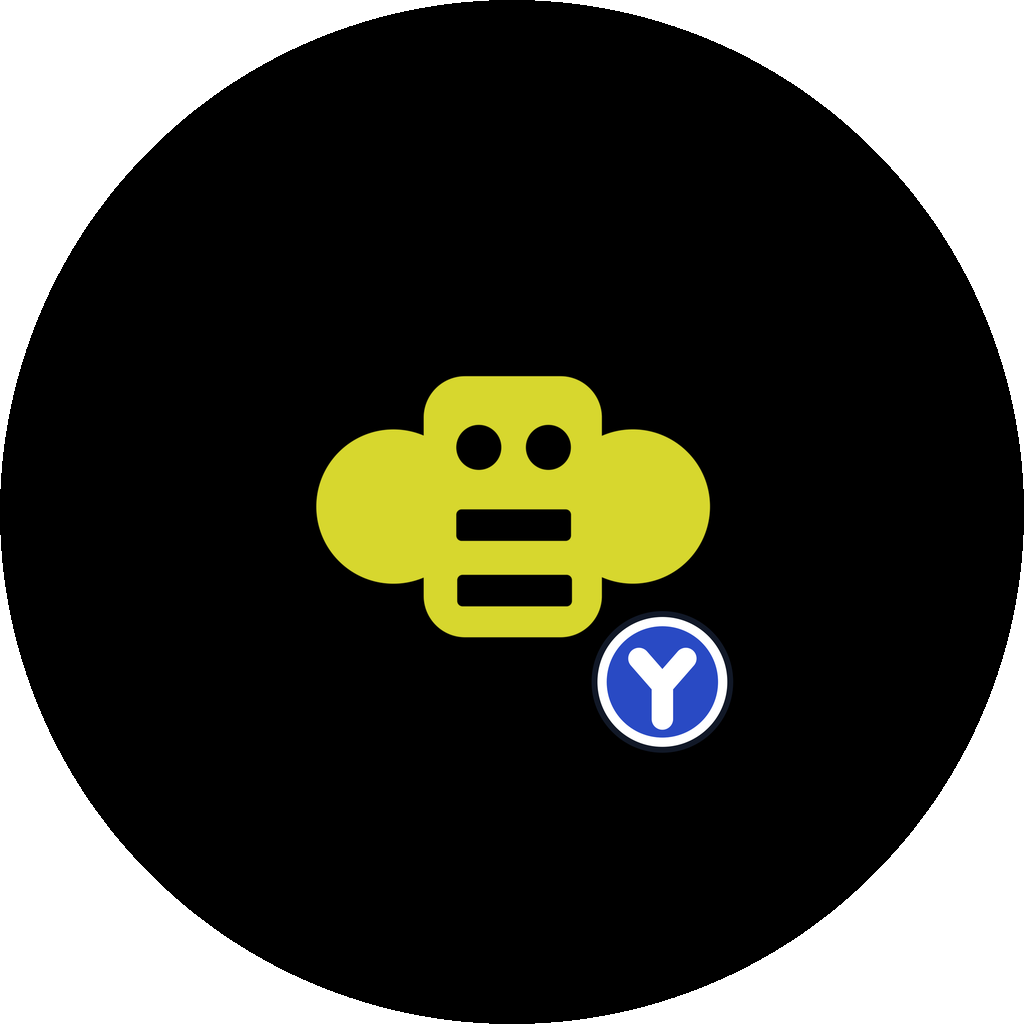
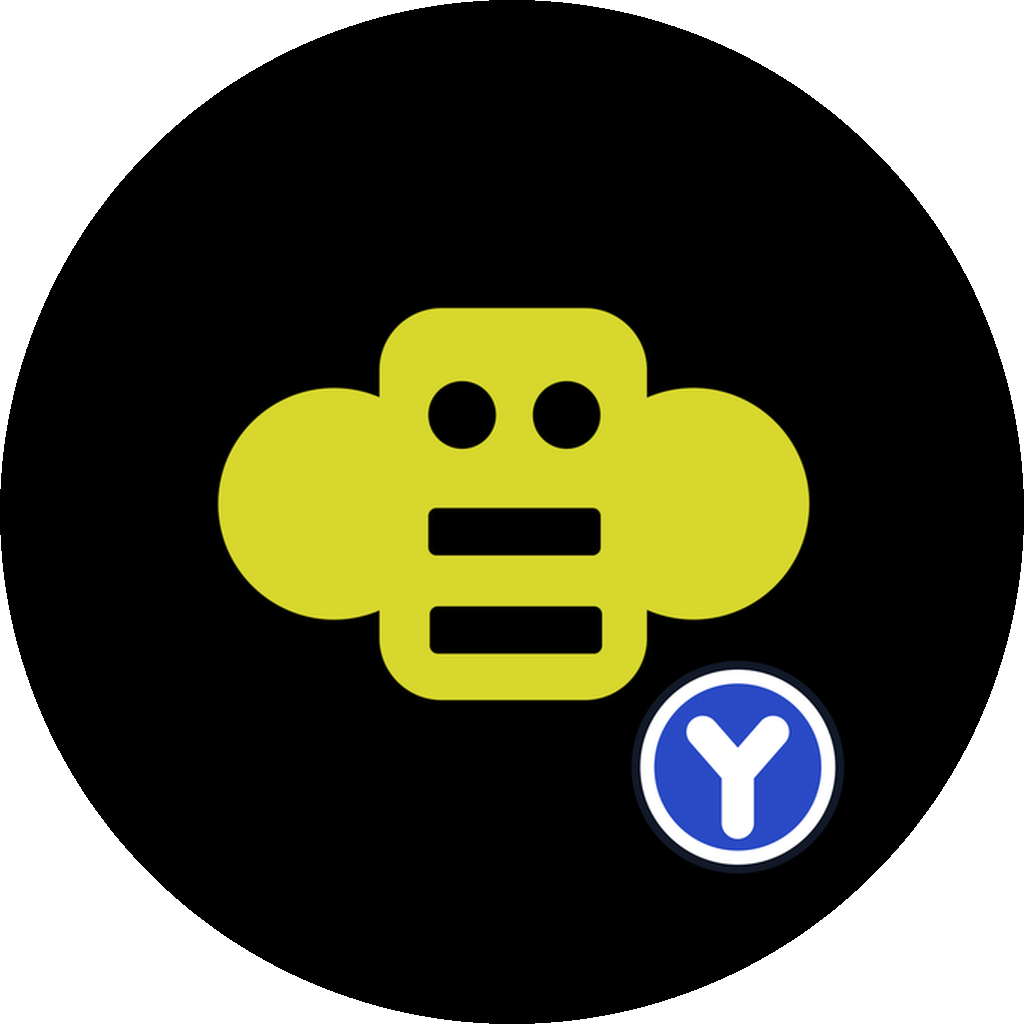
Correct optical SVG breakpoint and Android viewport previews

Changed region(s): [[0.1875, 0.2812, 0.8438, 0.875]]

diff --git a/scripts/generate-fork-icons.py b/scripts/generate-fork-icons.py
@@ -4,7 +4,7 @@ Run nice -n 19 python3 scripts/generate-fork-icons.py [--check].
 """
 from pathlib import Path
 from io import BytesIO
-import argparse, json, hashlib, struct
+import argparse, json, hashlib, struct, math
 import xml.etree.ElementTree as ET
 import cairosvg
 from PIL import Image, ImageDraw, ImageChops
@@ -162,18 +162,37 @@ for style,label in [('web','Web rounded'),('square','iOS opaque'),('adaptive','A
    x=30+col*1140;draw.rectangle((x,y+25,x+1100,y+size+55),fill=bg)
    tile=cache[((size,size),style)][0];sheet.paste(tile,(x+20,y+40),tile)
  out=BytesIO();sheet.save(out,format='PNG');outputs[ROOT/f'assets/fork-icon/contact-sheet-{style}.png']=out.getvalue()
-# Circle/squircle masks use the generated Android foreground, with its actual inset.
+def android_mask_preview(size,shape):
+    # AdaptiveIconDrawable layers are 108 dp; the masked viewport is the central 72 dp.
+    # Use the exact generated foreground, then crop its viewport before masking.
+    side=1024
+    tile=Image.new('RGBA',(side,side),'black')
+    tile.alpha_composite(cache[((side,side),'adaptive')][0])
+    margin=round(side*(1-72/108)/2)
+    tile=tile.crop((margin,margin,side-margin,side-margin)).resize((size,size),Image.Resampling.LANCZOS)
+    factor=4 if size<=128 else 1
+    dimension=size*factor
+    mask=Image.new('L',(dimension,dimension));md=ImageDraw.Draw(mask)
+    if shape=='circle':md.ellipse((0,0,dimension-1,dimension-1),fill=255)
+    else:
+        radius=(dimension-1)/2
+        points=[]
+        for step in range(512):
+            angle=2*math.pi*step/512
+            cosine,sine=math.cos(angle),math.sin(angle)
+            points.append((radius+radius*math.copysign(abs(cosine)**0.5,cosine),radius+radius*math.copysign(abs(sine)**0.5,sine)))
+        md.polygon(points,fill=255)
+    tile.putalpha(mask.resize((size,size),Image.Resampling.LANCZOS))
+    return tile
+# Circle/squircle previews show the Android 72 dp viewport, not the full 108 dp layer.
+
 sheet=Image.new('RGB',(2304,2920),'#e5e7eb');draw=ImageDraw.Draw(sheet)
 for size,y in [(16,35),(32,120),(64,220),(128,360),(1024,650)]:
  draw.text((20,y),f'Android {size}px circle / squircle masks — badge safe-zone check passed',fill='black')
  for col,bg in enumerate(('#fff','#15171c')):
   x=30+col*1140;draw.rectangle((x,y+25,x+1100,y+size+55),fill=bg)
   for i,shape in enumerate(('circle','squircle')):
-   tile=Image.new('RGBA',(size,size),'black');tile.alpha_composite(cache[((size,size),'adaptive')][0])
-   mask=Image.new('L',(size,size));md=ImageDraw.Draw(mask)
-   if shape=='circle':md.ellipse((0,0,size-1,size-1),fill=255)
-   else:md.rounded_rectangle((0,0,size-1,size-1),radius=size*0.22,fill=255)
-   tile.putalpha(mask)
+   tile=android_mask_preview(size,shape)
    # Full-size mask previews are stacked so every exported pixel remains inspectable.
    px=x+20+(i*(size+24) if size<1024 else 0);py=y+40+(i*1080 if size==1024 else 0)
    if size==1024:draw.rectangle((x,py-10,x+1100,py+size+10),fill=bg)
@@ -181,11 +200,8 @@ for size,y in [(16,35),(32,120),(64,220),(128,360),(1024,650)]:
  out=BytesIO()
  # Native-sized circle and squircle PNGs accompany the sheet at every scale.
  for shape in ('circle','squircle'):
-  tile=Image.new('RGBA',(size,size),'black');tile.alpha_composite(cache[((size,size),'adaptive')][0])
-  mask=Image.new('L',(size,size));md=ImageDraw.Draw(mask)
-  if shape=='circle':md.ellipse((0,0,size-1,size-1),fill=255)
-  else:md.rounded_rectangle((0,0,size-1,size-1),radius=size*0.22,fill=255)
-  tile.putalpha(mask);out=BytesIO();tile.save(out,format='PNG');outputs[ROOT/f'assets/fork-icon/previews/android-{shape}-{size}.png']=out.getvalue()
+  tile=android_mask_preview(size,shape)
+  out=BytesIO();tile.save(out,format='PNG');outputs[ROOT/f'assets/fork-icon/previews/android-{shape}-{size}.png']=out.getvalue()
 out=BytesIO();sheet.save(out,format='PNG');outputs[ROOT/'assets/fork-icon/contact-sheet-masks.png']=out.getvalue()
 manifest={str(p.relative_to(ROOT)):hashlib.sha256(data).hexdigest() for p,data in sorted(outputs.items())}
 outputs[ROOT/'assets/fork-icon/manifest.json']=(json.dumps(manifest,indent=2)+'\n').encode()

diff --git a/assets/fork-icon/README.md b/assets/fork-icon/README.md
@@ -2,8 +2,8 @@
 
 `source.svg` is the self-contained artwork source. It preserves the upstream mark and adds a blue fork badge with contrasting rings. Badge color `#294ac4` is the **provisional** Ideaflow accent from index.ideaflow.app, approved by root d3caa262 for this icon task; Jacob can override it. `upstream.png` is the unmodified comparison reference, not a generation input.
 
-Use Python 3.12 with Cairo installed, create an isolated virtual environment, install `requirements.txt`, then run `nice -n 19 python scripts/generate-fork-icons.py`. Pass `--check` to verify all generated outputs and the SHA-256 manifest without writing. No app dependencies change. Browser SVGs select 16/32 px symbols with viewport media queries; CairoSVG raster generation strips those media selectors and chooses the optical symbol explicitly after padding, preventing duplicate badges.
+Use Python 3.12 with Cairo installed, create an isolated virtual environment, install `requirements.txt`, then run `nice -n 19 python scripts/generate-fork-icons.py`. Pass `--check` to verify all generated outputs and the SHA-256 manifest without writing. No app dependencies change. Browser SVGs select 16/32 px symbols with exclusive integer viewport breakpoints (16 px and 17–32 px; fractional cutoffs can overlap at 16 px in Chrome); CairoSVG raster generation strips those media selectors and chooses the optical symbol explicitly after padding, preventing duplicate badges.
 
-The generator writes the existing desktop, mobile and web identity asset paths. At 16 and 32 px the source SVG’s size-specific `small-badge-16` and `small-badge-32` symbols replace the detailed badge after platform padding, with a solid blue disc, bold white Y and one white contrast ring. The larger badge is smaller and positioned below the main contour cues. macOS exports have an optical inset and rounded tile. iOS uses an opaque full canvas (Expo generates the native Paseo AppIcon set during prebuild); Android adaptive foregrounds place the full mark and badge inside the central 66/108 safe circle. Legacy round and PWA maskable compositions also preserve the badge inside their safe circles; `mask-check.json` records automated coverage checks. Buzz mobile consumes the already-inset foreground directly, avoiding an extra inset. Status favicons retain their status colors at the opposite corner. The main contact sheet compares upstream and actual macOS exports at native 16, 32, 64, 128 and 1024 pixels on light and dark backgrounds. Additional `contact-sheet-*.png` files show generated web, iOS, Android, PWA and masked outputs at those same sizes. Circle/squircle previews and unmasked review samples are in `previews/`; these are raster/mask inspections, not device screenshots.
+The generator writes the existing desktop, mobile and web identity asset paths. At 16 and 32 px the source SVG’s size-specific `small-badge-16` and `small-badge-32` symbols replace the detailed badge after platform padding, with a solid blue disc, bold white Y and one white contrast ring. The larger badge is smaller and positioned below the main contour cues. macOS exports have an optical inset and rounded tile. iOS uses an opaque full canvas (Expo generates the native Paseo AppIcon set during prebuild); Android adaptive foregrounds place the full mark and badge inside the central 66/108 safe circle. Legacy round and PWA maskable compositions also preserve the badge inside their safe circles; `mask-check.json` records automated coverage checks. Buzz mobile consumes the already-inset foreground directly, avoiding an extra inset. Status favicons retain their status colors at the opposite corner. The main contact sheet compares upstream and actual macOS exports at native 16, 32, 64, 128 and 1024 pixels on light and dark backgrounds. Additional `contact-sheet-*.png` files show generated web, iOS, Android, PWA and masked outputs at those same sizes. Circle/squircle previews crop the central 72/108 viewport before masking; the badge remains in the stricter 66/108 safe circle. Geometry follows [Android’s AdaptiveIconDrawable reference](https://developer.android.com/reference/android/graphics/drawable/AdaptiveIconDrawable). Preview PNGs and unmasked review samples are in `previews/`; these are raster/mask inspections, not device screenshots.
 
 Linux checks validate generated pixels and containers. They do not establish actual Dock, menu bar or home-screen behavior on Apple devices.
